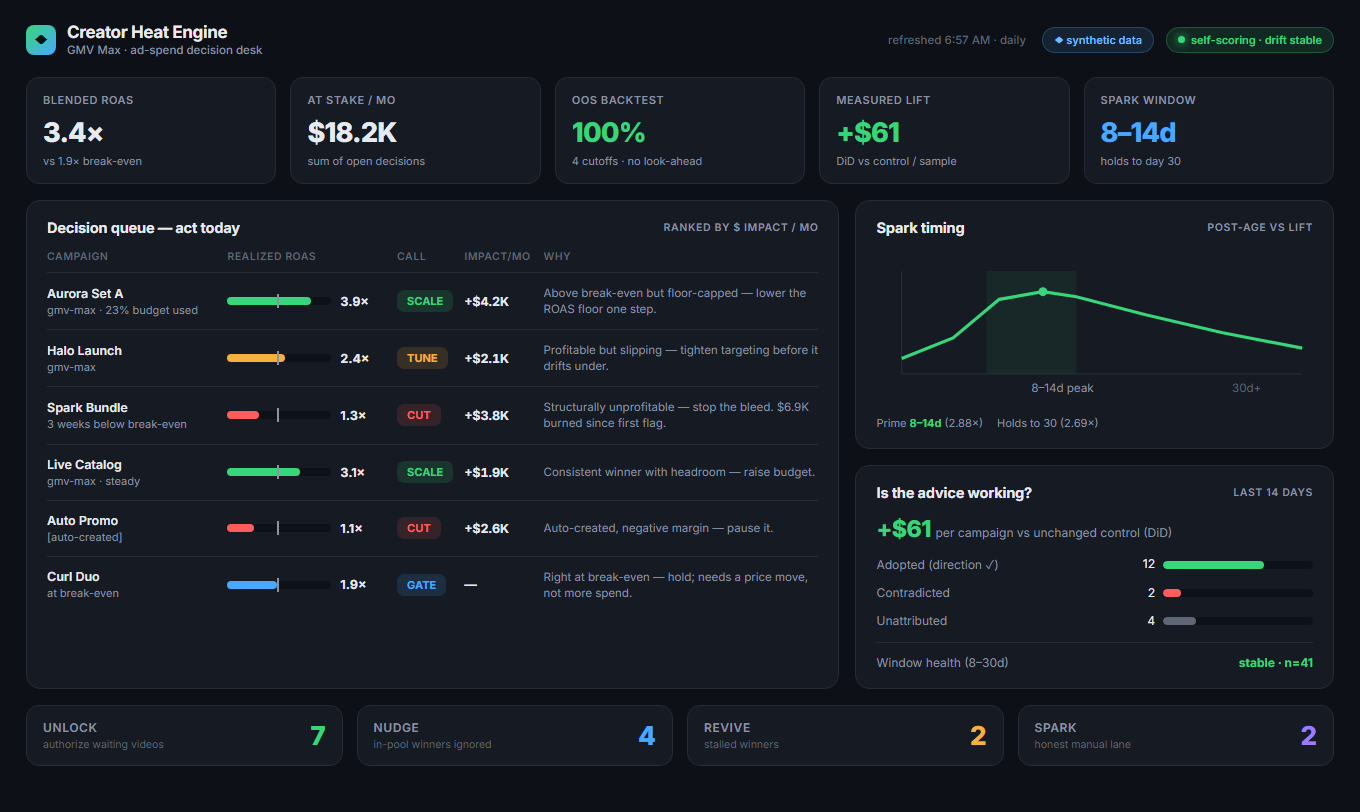
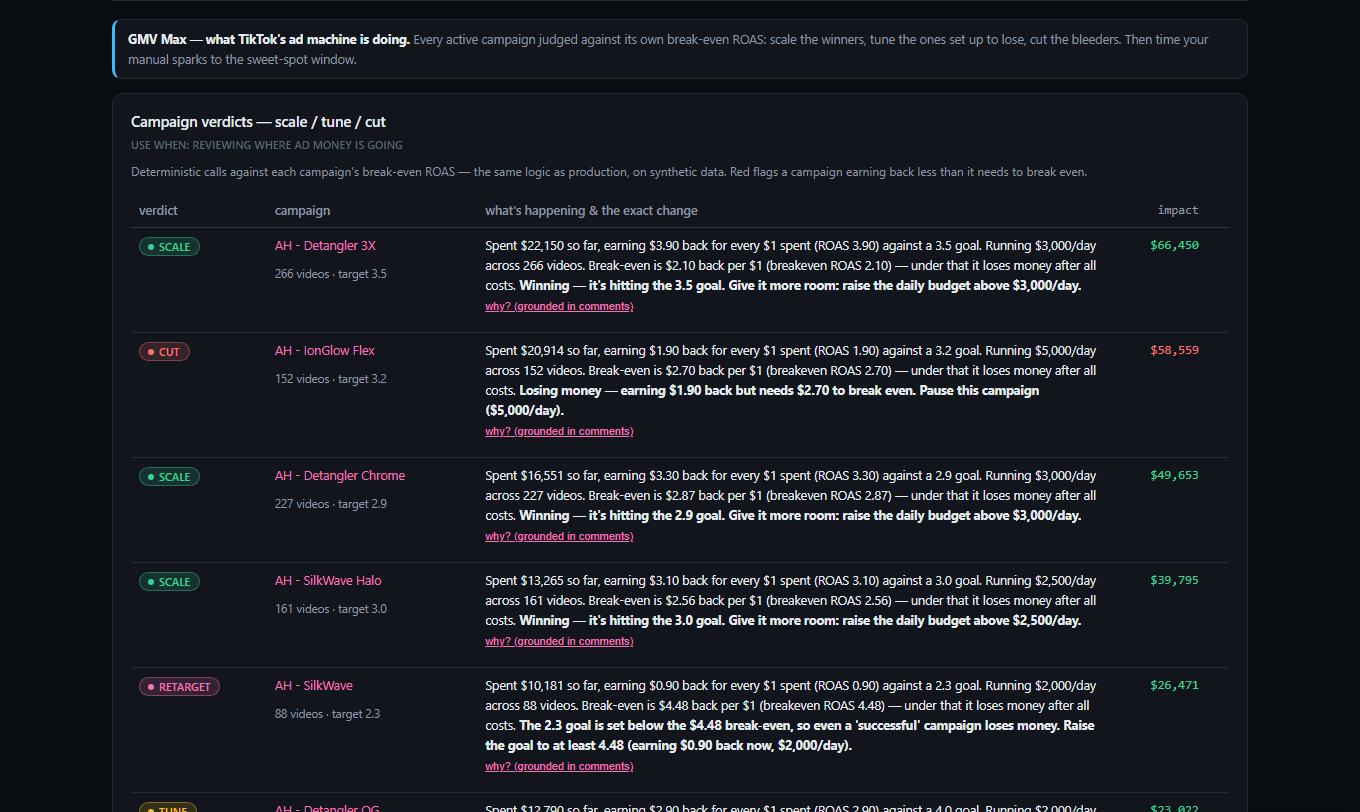
engine: honest attribution — credit the creator-ranking/scoring model to a colleague (was overclaimed); keep the campaign-verdict engine, closed-loop self-scoring, RAG copilot & desk/UX as mine. Refresh engine screenshots to the rebuilt 6-section synthetic desk (Overview/Ads Machine/Money) + cache-b

diff --git a/index.html b/index.html
@@ -11,7 +11,7 @@
 <meta property="og:description" content="Built FHI Heat's data warehouse from scratch, then the ML & BI tools the company ran on it. CS + Data Science, UW–Madison.">
 <meta property="og:type" content="profile">
 <meta name="twitter:card" content="summary">
-<script type="application/ld+json">{"@context":"https://schema.org","@type":"ProfilePage","mainEntity":{"@type":"Person","name":"Camryn Blum","jobTitle":"AI & Data Engineer","email":"mailto:camrynblum@gmail.com","alumniOf":{"@type":"CollegeOrUniversity","name":"University of Wisconsin–Madison"},"worksFor":{"@type":"Organization","name":"FHI Heat"},"affiliation":[{"@type":"Organization","name":"FHI Heat"},{"@type":"ResearchOrganization","name":"People and Robots Lab, University of Wisconsin–Madison"},{"@type":"ResearchOrganization","name":"Kamp Lab, University of Wisconsin–Madison"}],"knowsAbout":["data warehousing","data integration","ETL / ELT","dimensional modeling","SQL","Python","Shopify","Amazon Seller Central","Amazon Vendor Central","Amazon Ads","TikTok Shop","TikTok Ads","Meta Ads","Google Ads","Google Analytics (GA4)","Google Search Console","Google Merchant Center","SAP","ShipStation","Attentive","Euka","LangGraph","RAG","RAGAS","dbt","BigQuery","Power BI","DAX","machine learning","web scraping","causal inference","out-of-sample backtesting","BI dashboards","n8n","Next.js"],"description":"Built FHI Heat's multi-platform data warehouse from scratch — unifying ~15 systems across the US & EU (Shopify, Amazon Seller/Vendor Central & Ads, TikTok Shop & Ads, Meta Ads, Google Ads/Analytics/Search Console/Merchant Center, SAP, ShipStation, Attentive, Euka) into one conformed SQL schema — then built most of the tools that ran on top of it: a creator-discovery pipeline, an ad-spend decision engine with out-of-sample backtesting, an n8n alerting workflow, and an executive BI dashboard.","sameAs":["https://github.com/cmblum2"],"hasPart":[{"@type":"CreativeWork","name":"Six-figure books reconciliation (M&A diligence)","abstract":"six-figure discrepancy, reconciled","description":"During acquisition diligence, the buyer flagged a large apparent shipping discrepancy — the ERP showed far more paid to the postal carrier than shipping labels were actually bought for. Working solo in the warehouse, I reconciled 570K+ shipping records against the SAP payment ledger and proved it was a bookkeeping mis-classification, not missing money: shipping is prepaid through two carrier 'wallets' that were both being booked under a single vendor. Counting both wallets and both payment streams, spend matched payments to ~0.5% over three years — and the correction was booked."},{"@type":"CreativeWork","name":"Fulfilled-by-TikTok build-vs-buy analysis","abstract":"build-vs-buy, backed by data","description":"TikTok pitched its Fulfilled-by-TikTok program (they warehouse & ship your inventory at a higher fee) with claims that faster shipping converts better and gets more traffic. Instead of trusting the brochure, I priced every fee and every claim against FHI's actual first-party data and recommended against blanket adoption — with a per-SKU strategy: don't convert the light-weight brushes (~95% of volume, structurally costlier under FBT), pilot the heavy tools where FBT actually saves, and make TikTok underwrite the unverifiable 'free traffic' claim. Delivered as an interactive dashboard for a non-technical decision-maker."},{"@type":"CreativeWork","name":"Creator-discovery & buy-intent pipeline","abstract":"creator discovery + buy-intent","description":"To replace a third-party creator-intelligence vendor, I built a standalone pipeline that scrapes TikTok's public creator, video, and comment data — the two things no official API returns: creators outside your own shop (for cold affiliate outreach) and raw comment text scored for buy-intent. It feeds the affiliate outreach team and the decision engine below."},{"@type":"CreativeWork","name":"Affiliate ad-spend decision engine","abstract":"affiliate decision engine · shipped","description":"The engine that told FHI's affiliate managers what to do: which creators to send product to, and which TikTok GMV Max campaign to scale, cut, or tune — grounded in real margin, guardrailed, and causally validated. A deterministic rules layer makes every call (ROAS vs. margin breakeven; creator rank vs. eligibility); an LLM only narrates the verdict and cites the evidence. Shipped and in use (a live page + a weekly one-click report). It now closes its own loop: every recommendation is archived and later graded against what actually happened, so the engine measures whether its own advice worked — then re-ranks tomorrow's actions by dollar impact."},{"@type":"CreativeWork","name":"n8n alerting automation","abstract":"no-code automation (n8n)","description":"The models are only useful if someone acts on them, so I built the alerting layer as an n8n workflow: a daily schedule fans out to four watchers — new high-intent creators in the sampling queue, campaign verdicts flipping, model drift, and the 8–14-day 'spark' window on videos — each polling the deployed engine, diffing against the last run, and alerting only when something changed."},{"@type":"CreativeWork","name":"Executive BI dashboard","abstract":"exec BI app (Next.js)","description":"The executive BI web app FHI's CEO and operators ran on — daily revenue, margin, channel, inventory, and ad views where every panel ends in a ranked 'Actions' band (cut / fix / scale / watch) plus an alert layer (stockouts, ROAS collapse, creator decay). It reframed the dashboard from display to decision, and surfaced what the DTC-only reports missed: a major wholesale channel, and a large slice of ad spend with no measurable attribution."},{"@type":"CreativeWork","name":"NL→SQL analytics agent (governed)","abstract":"governed NL→SQL agent · live","description":"A LangGraph agent that turns plain-English questions into governed SQL — read-only, self-repairing, with role-based access enforced in three layers (schema-scoped prompt, a guard, and per-role DuckDB views). Public rebuild on synthetic data modeled on my warehouse; live demo with five role logins (ask it to 'delete all orders' and it refuses)."},{"@type":"CreativeWork","name":"dbt + BigQuery analytics warehouse","abstract":"dbt + BigQuery, CI-tested","description":"A retail warehouse modeled in dbt on BigQuery (raw → staging → marts) with data tests, lineage docs, and GitHub Actions CI running the full build + 13 tests on every push. Public rebuild on synthetic data — the named-stack, reproducible version of my production modeling."},{"@type":"CreativeWork","name":"Voice-first lab assistant (SteMy)","abstract":"People and Robots Lab × Kamp Lab · UW–Madison · ongoing","description":"SteMy is a hands-free voice AI lab partner for stem-cell researchers. Turning stem cells into heart cells is notoriously irreproducible batch-to-batch — and researchers are hands-busy at the hood during time-sensitive windows, with dozens of variables to track. I build and lead the voice-interaction layer that lets them capture and recall the right experimental variable at the right moment, hands-free. A separate, ongoing UW–Madison research engagement with the People and Robots Lab (Prof. Bilge Mutlu) × the Kamp Lab (Dr. Timothy Kamp); part of an active NIH R01 that scored highly — funding anticipated."},{"@type":"CreativeWork","name":"Multi-source data warehouse — built from scratch","abstract":"unified warehouse, built from scratch","description":"Designed and built FHI Heat's SQL warehouse from zero — a dbt-style raw → staging → marts model (hundreds of tables/views) unifying ~15 source systems across the US & EU via nightly Python ETL: every commerce, ad, search, ERP, fulfillment, and marketing platform the company runs on. The single source of truth every downstream tool queries."}]}}</script>
+<script type="application/ld+json">{"@context":"https://schema.org","@type":"ProfilePage","mainEntity":{"@type":"Person","name":"Camryn Blum","jobTitle":"AI & Data Engineer","email":"mailto:camrynblum@gmail.com","alumniOf":{"@type":"CollegeOrUniversity","name":"University of Wisconsin–Madison"},"worksFor":{"@type":"Organization","name":"FHI Heat"},"affiliation":[{"@type":"Organization","name":"FHI Heat"},{"@type":"ResearchOrganization","name":"People and Robots Lab, University of Wisconsin–Madison"},{"@type":"ResearchOrganization","name":"Kamp Lab, University of Wisconsin–Madison"}],"knowsAbout":["data warehousing","data integration","ETL / ELT","dimensional modeling","SQL","Python","Shopify","Amazon Seller Central","Amazon Vendor Central","Amazon Ads","TikTok Shop","TikTok Ads","Meta Ads","Google Ads","Google Analytics (GA4)","Google Search Console","Google Merchant Center","SAP","ShipStation","Attentive","Euka","LangGraph","RAG","RAGAS","dbt","BigQuery","Power BI","DAX","machine learning","web scraping","causal inference","out-of-sample backtesting","BI dashboards","n8n","Next.js"],"description":"Built FHI Heat's multi-platform data warehouse from scratch — unifying ~15 systems across the US & EU (Shopify, Amazon Seller/Vendor Central & Ads, TikTok Shop & Ads, Meta Ads, Google Ads/Analytics/Search Console/Merchant Center, SAP, ShipStation, Attentive, Euka) into one conformed SQL schema — then built most of the tools that ran on top of it: a creator-discovery pipeline, an ad-spend decision engine with out-of-sample backtesting, an n8n alerting workflow, and an executive BI dashboard.","sameAs":["https://github.com/cmblum2"],"hasPart":[{"@type":"CreativeWork","name":"Six-figure books reconciliation (M&A diligence)","abstract":"six-figure discrepancy, reconciled","description":"During acquisition diligence, the buyer flagged a large apparent shipping discrepancy — the ERP showed far more paid to the postal carrier than shipping labels were actually bought for. Working solo in the warehouse, I reconciled 570K+ shipping records against the SAP payment ledger and proved it was a bookkeeping mis-classification, not missing money: shipping is prepaid through two carrier 'wallets' that were both being booked under a single vendor. Counting both wallets and both payment streams, spend matched payments to ~0.5% over three years — and the correction was booked."},{"@type":"CreativeWork","name":"Fulfilled-by-TikTok build-vs-buy analysis","abstract":"build-vs-buy, backed by data","description":"TikTok pitched its Fulfilled-by-TikTok program (they warehouse & ship your inventory at a higher fee) with claims that faster shipping converts better and gets more traffic. Instead of trusting the brochure, I priced every fee and every claim against FHI's actual first-party data and recommended against blanket adoption — with a per-SKU strategy: don't convert the light-weight brushes (~95% of volume, structurally costlier under FBT), pilot the heavy tools where FBT actually saves, and make TikTok underwrite the unverifiable 'free traffic' claim. Delivered as an interactive dashboard for a non-technical decision-maker."},{"@type":"CreativeWork","name":"Creator-discovery & buy-intent pipeline","abstract":"creator discovery + buy-intent","description":"To replace a third-party creator-intelligence vendor, I built a standalone pipeline that scrapes TikTok's public creator, video, and comment data — the two things no official API returns: creators outside your own shop (for cold affiliate outreach) and raw comment text scored for buy-intent. It feeds the affiliate outreach team and the decision engine below."},{"@type":"CreativeWork","name":"Affiliate ad-spend decision engine","abstract":"affiliate decision engine · shipped","description":"The operator desk that told FHI's affiliate managers what to do each morning: which TikTok GMV Max campaigns to scale, cut, or tune, when to spark an organic winner, and which creators to sample next. A deterministic rules layer makes every campaign call (ROAS vs. margin breakeven); an LLM copilot only narrates the verdict and cites the audience evidence. It closes its own loop — every campaign recommendation is archived and later graded (difference-in-differences vs. unchanged campaigns) against what actually happened, then tomorrow's actions re-rank by dollar impact. Shipped and in use (a live page + a weekly one-click report). Honest scope: the upstream creator-ranking/scoring model was a colleague's; my work is the decision desk, the campaign-verdict logic, the closed-loop self-scoring, the RAG copilot, and the full operator UX — rebuilt public and synthetic at the repo below."},{"@type":"CreativeWork","name":"n8n alerting automation","abstract":"no-code automation (n8n)","description":"The models are only useful if someone acts on them, so I built the alerting layer as an n8n workflow: a daily schedule fans out to four watchers — new high-intent creators in the sampling queue, campaign verdicts flipping, model drift, and the 8–14-day 'spark' window on videos — each polling the deployed engine, diffing against the last run, and alerting only when something changed."},{"@type":"CreativeWork","name":"Executive BI dashboard","abstract":"exec BI app (Next.js)","description":"The executive BI web app FHI's CEO and operators ran on — daily revenue, margin, channel, inventory, and ad views where every panel ends in a ranked 'Actions' band (cut / fix / scale / watch) plus an alert layer (stockouts, ROAS collapse, creator decay). It reframed the dashboard from display to decision, and surfaced what the DTC-only reports missed: a major wholesale channel, and a large slice of ad spend with no measurable attribution."},{"@type":"CreativeWork","name":"NL→SQL analytics agent (governed)","abstract":"governed NL→SQL agent · live","description":"A LangGraph agent that turns plain-English questions into governed SQL — read-only, self-repairing, with role-based access enforced in three layers (schema-scoped prompt, a guard, and per-role DuckDB views). Public rebuild on synthetic data modeled on my warehouse; live demo with five role logins (ask it to 'delete all orders' and it refuses)."},{"@type":"CreativeWork","name":"dbt + BigQuery analytics warehouse","abstract":"dbt + BigQuery, CI-tested","description":"A retail warehouse modeled in dbt on BigQuery (raw → staging → marts) with data tests, lineage docs, and GitHub Actions CI running the full build + 13 tests on every push. Public rebuild on synthetic data — the named-stack, reproducible version of my production modeling."},{"@type":"CreativeWork","name":"Voice-first lab assistant (SteMy)","abstract":"People and Robots Lab × Kamp Lab · UW–Madison · ongoing","description":"SteMy is a hands-free voice AI lab partner for stem-cell researchers. Turning stem cells into heart cells is notoriously irreproducible batch-to-batch — and researchers are hands-busy at the hood during time-sensitive windows, with dozens of variables to track. I build and lead the voice-interaction layer that lets them capture and recall the right experimental variable at the right moment, hands-free. A separate, ongoing UW–Madison research engagement with the People and Robots Lab (Prof. Bilge Mutlu) × the Kamp Lab (Dr. Timothy Kamp); part of an active NIH R01 that scored highly — funding anticipated."},{"@type":"CreativeWork","name":"Multi-source data warehouse — built from scratch","abstract":"unified warehouse, built from scratch","description":"Designed and built FHI Heat's SQL warehouse from zero — a dbt-style raw → staging → marts model (hundreds of tables/views) unifying ~15 source systems across the US & EU via nightly Python ETL: every commerce, ad, search, ERP, fulfillment, and marketing platform the company runs on. The single source of truth every downstream tool queries."}]}}</script>
 </head>
 <body>
   <div class="nav"><div class="wrap">
@@ -125,9 +125,9 @@
       <div class="dz-sk"><span>LLM agents (LangGraph)</span><span>RAG (Chroma)</span><span>Causal inference (DiD)</span><span>Closed-loop self-scoring</span><span>Unit economics</span><span>Out-of-sample backtest</span></div>
       <details class="dz-more">
         <summary><span class="dz-more-l"><span class="o">Read how it works</span><span class="c">Hide details</span></span></summary>
-        <p class="dz-shotsnote">Synthetic rebuild — the production engine ran on private FHI data; every figure below is fabricated.</p><div class="dz-shots"><figure class="dz-shot"><img loading="lazy" src="assets/shots/engine-decisions.png" alt="Decision desk — GMV Max scale/cut verdicts, impact-ranked &amp; self-scored (synthetic rebuild of the production engine)"><figcaption>Decision desk — GMV Max scale/cut verdicts, impact-ranked &amp; self-scored (synthetic rebuild of the production engine)</figcaption></figure><figure class="dz-shot"><img loading="lazy" src="assets/shots/engine-today.png" alt=""Today" view — health lights, verb-first moves &amp; action lanes (synthetic)"><figcaption>"Today" view — health lights, verb-first moves &amp; action lanes (synthetic)</figcaption></figure><figure class="dz-shot"><img loading="lazy" src="assets/shots/rag-demo.png" alt="Also public &amp; live — the deployed synthetic demo"><figcaption>Also public &amp; live — the deployed synthetic demo</figcaption></figure></div>
-        <p class="dz-n">The engine that told FHI's affiliate managers what to do: which creators to send product to, and which TikTok GMV Max campaign to scale, cut, or tune — grounded in real margin, guardrailed, and causally validated. A deterministic rules layer makes every call (ROAS vs. margin breakeven; creator rank vs. eligibility); an LLM only narrates the verdict and cites the evidence. Shipped and in use (a live page + a weekly one-click report). It now closes its own loop: every recommendation is archived and later graded against what actually happened, so the engine measures whether its own advice worked — then re-ranks tomorrow's actions by dollar impact.</p>
-        <div class="dz-tk"><div class="dz-tkh">How it works</div><ul><li>Architecture — three live sources (a 138K-creator roster, the SQL warehouse, and scraped comment text) → a deterministic decision layer (plain SQL + pandas: campaign ROAS vs. margin breakeven → cut/tune/scale; creator rank + eligibility → sample) → a RAG layer that explains each verdict and cites its evidence. 'Code decides, the LLM narrates' — the 138K creators stay in SQL and JOIN at answer time; only comments are embedded (MiniLM → Chroma).</li><li>Two validations, not one — (1) campaign decisions: an out-of-sample backtest (recompute every verdict from pre-cutoff data, measure realized outcomes after, no look-ahead) hit 100% profitable/unprofitable classification across four cutoff windows — the 'keep' side rested on few campaigns, so I lean on the robust 'stop' side. (2) creator sampling: a matched-control difference-in-differences (each seeded creator vs. comparable un-sampled creators) gave rank↔lift Spearman ≈ −0.58, ~77% of sampled creators showing positive lift.</li><li>Built on evidence — the scorer was rebuilt after a backtest showed prior-GMV had ~zero forward skill (information coefficient ≈ −0.03): reframed around marginal value (efficiency, buy-intent, product affinity) with a 0-video eligibility gate (53% of 'active' creators had posted nothing). Guardrails: ordinal ranks only (never size spend), protected matched controls, epsilon-greedy exploration to de-bias the learning loop, and a drift monitor (feature PSI) that can hold a release. Whole-engine eval: 5/5.</li><li>Closes its own loop (self-scoring) — the engine archives each day's recommendations and later grades them against outcomes with zero look-ahead and zero manual input: a difference-in-differences check against unchanged campaigns (as control) for whether an action actually moved the number, an adoption/direction check (was the call followed?), and a daily re-validation of its own timing claims that gates alerts on sample size. Every recommended action is ranked by estimated dollar impact per month on one common scale, so the queue is prioritized by money at stake — not noise. Reported platform ROI is treated as total-channel (it claims organic + affiliate orders too) — rank with it, never size spend from it.</li></ul></div>
+        <p class="dz-shotsnote">Synthetic rebuild, live at the demo below. The desk, the campaign-verdict logic, the closed-loop self-scoring, the RAG copilot &amp; the UX are mine; the creator-ranking model was a colleague’s. Every figure is fabricated.</p><div class="dz-shots"><figure class="dz-shot"><img loading="lazy" src="assets/shots/engine-today.png?v=2" alt="Overview — the daily action queue across campaigns, spark timing &amp; sampling; each card carries the exact move + evidence chips (synthetic 6-section desk)"><figcaption>Overview — the daily action queue across campaigns, spark timing &amp; sampling; each card carries the exact move + evidence chips (synthetic 6-section desk)</figcaption></figure><figure class="dz-shot"><img loading="lazy" src="assets/shots/engine-decisions.png?v=2" alt="Ads Machine — GMV Max campaign verdicts (scale / cut / tune / retarget) against each campaign’s own break-even ROAS"><figcaption>Ads Machine — GMV Max campaign verdicts (scale / cut / tune / retarget) against each campaign’s own break-even ROAS</figcaption></figure><figure class="dz-shot"><img loading="lazy" src="assets/shots/engine-money.png?v=2" alt="Money — unit economics, creator LTV, a margin×cost sensitivity grid &amp; the controlled-test (holdout) proof"><figcaption>Money — unit economics, creator LTV, a margin×cost sensitivity grid &amp; the controlled-test (holdout) proof</figcaption></figure></div>
+        <p class="dz-n">The operator desk that told FHI's affiliate managers what to do each morning: which TikTok GMV Max campaigns to scale, cut, or tune, when to spark an organic winner, and which creators to sample next. A deterministic rules layer makes every campaign call (ROAS vs. margin breakeven); an LLM copilot only narrates the verdict and cites the audience evidence. It closes its own loop — every campaign recommendation is archived and later graded (difference-in-differences vs. unchanged campaigns) against what actually happened, then tomorrow's actions re-rank by dollar impact. Shipped and in use (a live page + a weekly one-click report). Honest scope: the upstream creator-ranking/scoring model was a colleague's; my work is the decision desk, the campaign-verdict logic, the closed-loop self-scoring, the RAG copilot, and the full operator UX — rebuilt public and synthetic at the repo below.</p>
+        <div class="dz-tk"><div class="dz-tkh">How it works</div><ul><li>Architecture — three live sources (a 138K-creator roster, the SQL warehouse, and scraped comment text) → a deterministic decision layer (plain SQL + pandas: campaign ROAS vs. margin breakeven → cut/tune/scale; creator rank + eligibility → sample) → a RAG layer that explains each verdict and cites its evidence. 'Code decides, the LLM narrates' — the 138K creators stay in SQL and JOIN at answer time; only comments are embedded (MiniLM → Chroma).</li><li>Campaign decisions, validated — an out-of-sample backtest recomputes every verdict from pre-cutoff data and measures realized outcomes after, with no look-ahead: 100% profitable/unprofitable classification across four cutoff windows. The 'keep' side rested on few campaigns, so I lean on the robust 'stop' side. (The creator-ranking model's own lift validation was the colleague's work; my desk surfaces its ranks behind eligibility + control guardrails.)</li><li>The desk's guardrails (mine) — it surfaces the ranking model's ordinal ranks only (never sizes spend from them), hard-excludes protected matched-control and already-seeded creators before any pick is shown, and gates on a 0-video eligibility rule (a large share of 'active' creators had posted nothing). The RAG copilot is RAGAS-evaluated, and a drift signal can hold the daily run. The scoring model itself — feature design, the exploration bandit, retraining — was the colleague's, not mine.</li><li>Closes its own loop (self-scoring) — the engine archives each day's recommendations and later grades them against outcomes with zero look-ahead and zero manual input: a difference-in-differences check against unchanged campaigns (as control) for whether an action actually moved the number, an adoption/direction check (was the call followed?), and a daily re-validation of its own timing claims that gates alerts on sample size. Every recommended action is ranked by estimated dollar impact per month on one common scale, so the queue is prioritized by money at stake — not noise. Reported platform ROI is treated as total-channel (it claims organic + affiliate orders too) — rank with it, never size spend from it.</li></ul></div>
         <div class="dz-l">SQL warehouse <span class="arw">→</span> LangGraph decision engine <span class="arw">→</span> out-of-sample dollar backtest <span class="arw">→</span> self-scoring loop</div>
         <div class="dz-l2"><a href="https://github.com/cmblum2/creator-insight-assistant" target="_blank" rel="noopener">Repo (synthetic rebuild) →</a><a href="https://creator-insight-assistant.onrender.com" target="_blank" rel="noopener">Live demo →</a></div>
       </details>

diff --git a/src/warehouse.js b/src/warehouse.js
@@ -72,21 +72,21 @@ export const entries = [
     keywords: ['engine', 'decision', 'roi', 'roas', 'campaign', 'ad spend', 'adspend', 'backtest', 'breakeven', 'prove', 'accuracy', 'right'],
     viz: 'breakeven',
     shots: [
-      { src: 'assets/shots/engine-decisions.png', cap: 'Decision desk — GMV Max scale/cut verdicts, impact-ranked & self-scored (synthetic rebuild of the production engine)' },
-      { src: 'assets/shots/engine-today.png', cap: '"Today" view — health lights, verb-first moves & action lanes (synthetic)' },
-      { src: 'assets/shots/rag-demo.png', cap: 'Also public & live — the deployed synthetic demo' },
+      { src: 'assets/shots/engine-today.png?v=2', cap: 'Overview — the daily action queue across campaigns, spark timing & sampling; each card carries the exact move + evidence chips (synthetic 6-section desk)' },
+      { src: 'assets/shots/engine-decisions.png?v=2', cap: 'Ads Machine — GMV Max campaign verdicts (scale / cut / tune / retarget) against each campaign’s own break-even ROAS' },
+      { src: 'assets/shots/engine-money.png?v=2', cap: 'Money — unit economics, creator LTV, a margin×cost sensitivity grid & the controlled-test (holdout) proof' },
     ],
-    shotsNote: 'Synthetic rebuild — the production engine ran on private FHI data; every figure below is fabricated.',
+    shotsNote: 'Synthetic rebuild, live at the demo below. The desk, the campaign-verdict logic, the closed-loop self-scoring, the RAG copilot & the UX are mine; the creator-ranking model was a colleague’s. Every figure is fabricated.',
     plan: "SELECT verdict FROM ad_campaigns WHERE realized_roas < breakeven → 'cut'  (then backtest)",
     metric: '100% OOS', mlabel: 'affiliate decision engine · shipped',
     headline: 'Affiliate ad-spend decision engine',
-    narrative: "The engine that told FHI's affiliate managers what to do: which creators to send product to, and which TikTok GMV Max campaign to scale, cut, or tune — grounded in real margin, guardrailed, and causally validated. A deterministic rules layer makes every call (ROAS vs. margin breakeven; creator rank vs. eligibility); an LLM only narrates the verdict and cites the evidence. Shipped and in use (a live page + a weekly one-click report). It now closes its own loop: every recommendation is archived and later graded against what actually happened, so the engine measures whether its own advice worked — then re-ranks tomorrow's actions by dollar impact.",
+    narrative: "The operator desk that told FHI's affiliate managers what to do each morning: which TikTok GMV Max campaigns to scale, cut, or tune, when to spark an organic winner, and which creators to sample next. A deterministic rules layer makes every campaign call (ROAS vs. margin breakeven); an LLM copilot only narrates the verdict and cites the audience evidence. It closes its own loop — every campaign recommendation is archived and later graded (difference-in-differences vs. unchanged campaigns) against what actually happened, then tomorrow's actions re-rank by dollar impact. Shipped and in use (a live page + a weekly one-click report). Honest scope: the upstream creator-ranking/scoring model was a colleague's; my work is the decision desk, the campaign-verdict logic, the closed-loop self-scoring, the RAG copilot, and the full operator UX — rebuilt public and synthetic at the repo below.",
     skills: ['LLM agents (LangGraph)', 'RAG (Chroma)', 'Causal inference (DiD)', 'Closed-loop self-scoring', 'Unit economics', 'Out-of-sample backtest'],
     step: '② decide',
     tech: [
       "Architecture — three live sources (a 138K-creator roster, the SQL warehouse, and scraped comment text) → a deterministic decision layer (plain SQL + pandas: campaign ROAS vs. margin breakeven → cut/tune/scale; creator rank + eligibility → sample) → a RAG layer that explains each verdict and cites its evidence. 'Code decides, the LLM narrates' — the 138K creators stay in SQL and JOIN at answer time; only comments are embedded (MiniLM → Chroma).",
-      "Two validations, not one — (1) campaign decisions: an out-of-sample backtest (recompute every verdict from pre-cutoff data, measure realized outcomes after, no look-ahead) hit 100% profitable/unprofitable classification across four cutoff windows — the 'keep' side rested on few campaigns, so I lean on the robust 'stop' side. (2) creator sampling: a matched-control difference-in-differences (each seeded creator vs. comparable un-sampled creators) gave rank↔lift Spearman ≈ −0.58, ~77% of sampled creators showing positive lift.",
-      "Built on evidence — the scorer was rebuilt after a backtest showed prior-GMV had ~zero forward skill (information coefficient ≈ −0.03): reframed around marginal value (efficiency, buy-intent, product affinity) with a 0-video eligibility gate (53% of 'active' creators had posted nothing). Guardrails: ordinal ranks only (never size spend), protected matched controls, epsilon-greedy exploration to de-bias the learning loop, and a drift monitor (feature PSI) that can hold a release. Whole-engine eval: 5/5.",
+      "Campaign decisions, validated — an out-of-sample backtest recomputes every verdict from pre-cutoff data and measures realized outcomes after, with no look-ahead: 100% profitable/unprofitable classification across four cutoff windows. The 'keep' side rested on few campaigns, so I lean on the robust 'stop' side. (The creator-ranking model's own lift validation was the colleague's work; my desk surfaces its ranks behind eligibility + control guardrails.)",
+      "The desk's guardrails (mine) — it surfaces the ranking model's ordinal ranks only (never sizes spend from them), hard-excludes protected matched-control and already-seeded creators before any pick is shown, and gates on a 0-video eligibility rule (a large share of 'active' creators had posted nothing). The RAG copilot is RAGAS-evaluated, and a drift signal can hold the daily run. The scoring model itself — feature design, the exploration bandit, retraining — was the colleague's, not mine.",
       "Closes its own loop (self-scoring) — the engine archives each day's recommendations and later grades them against outcomes with zero look-ahead and zero manual input: a difference-in-differences check against unchanged campaigns (as control) for whether an action actually moved the number, an adoption/direction check (was the call followed?), and a daily re-validation of its own timing claims that gates alerts on sample size. Every recommended action is ranked by estimated dollar impact per month on one common scale, so the queue is prioritized by money at stake — not noise. Reported platform ROI is treated as total-channel (it claims organic + affiliate orders too) — rank with it, never size spend from it.",
     ],
     lineage: ['SQL warehouse', 'LangGraph decision engine', 'out-of-sample dollar backtest', 'self-scoring loop'], hot: 1,
